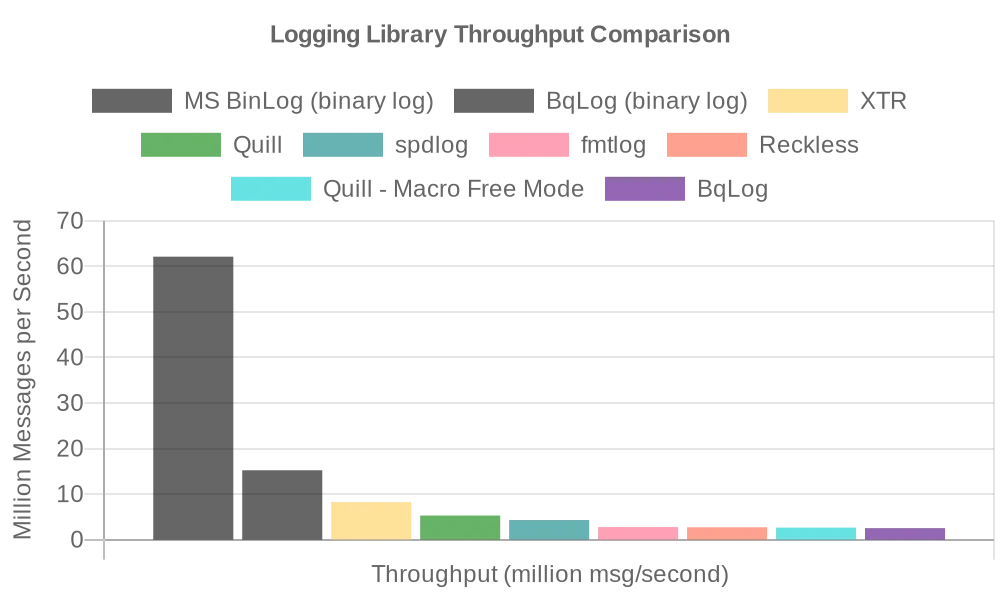
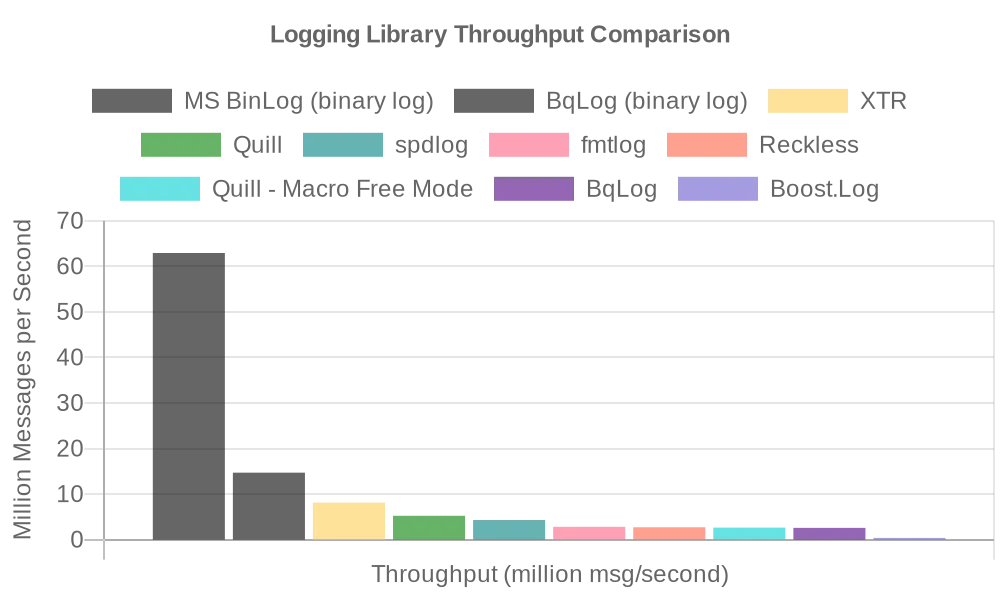
update readme

diff --git a/include/quill/sinks/RotatingSink.h b/include/quill/sinks/RotatingSink.h
@@ -660,17 +660,19 @@ private:
   }
 
   /***/
-  static bool _remove_file(fs::path const& filename) noexcept
+  static void _remove_file(fs::path const& filename) noexcept
   {
     std::error_code ec;
-    fs::remove(filename, ec);
 
-    if (ec)
+    fs::file_status const status = fs::status(filename, ec);
+
+    if (ec || status.type() != fs::file_type::regular)
     {
-      return false;
+      // File doesn't exist or is not a regular file
+      return;
     }
 
-    return true;
+    fs::remove(filename, ec);
   }
 
   /***/

diff --git a/README.md b/README.md
@@ -378,15 +378,16 @@ Logging 4 million times the message `"Iteration: {} int: {} double: {}"`
 
 | Library                                                           | million msg/second | elapsed time |
 |-------------------------------------------------------------------|:------------------:|:------------:|
-| [MS BinLog (binary log)](http://github.com/Morgan-Stanley/binlog) |       62.12        |    64 ms     |
-| [BqLog (binary log)](https://github.com/Tencent/BqLog)            |       15.24        |    262 ms    |
-| [XTR](https://github.com/choll/xtr)                               |        8.25        |    484 ms    |
-| [Quill](http://github.com/odygrd/quill)                           |        5.15        |    776 ms    |
+| [MS BinLog (binary log)](http://github.com/Morgan-Stanley/binlog) |       62.93        |    62 ms     |
+| [BqLog (binary log)](https://github.com/Tencent/BqLog)            |       14.71        |    271 ms    |
+| [XTR](https://github.com/choll/xtr)                               |        8.16        |    490 ms    |
+| [Quill](http://github.com/odygrd/quill)                           |        5.24        |    763 ms    |
 | [spdlog](http://github.com/gabime/spdlog)                         |        4.32        |    925 ms    |
-| [fmtlog](http://github.com/MengRao/fmtlog)                        |        2.77        |   1443 ms    |
+| [fmtlog](http://github.com/MengRao/fmtlog)                        |        2.82        |   1417 ms    |
 | [Reckless](http://github.com/mattiasflodin/reckless)              |        2.72        |   1471 ms    |
 | [Quill - Macro Free Mode](https://github.com/choll/xtr)           |        2.65        |   1510 ms    |
-| [BqLog](https://github.com/Tencent/BqLog)                         |        2.53        |   1580 ms    |
+| [BqLog](https://github.com/Tencent/BqLog)                         |        2.60        |   1537 ms    |
+| [Boost.Log](https://www.boost.org)                                |        0.39        |   10102 ms   |
 
 ![throughput.webp](docs%2Fcharts%2Fthroughput.webp)
 
